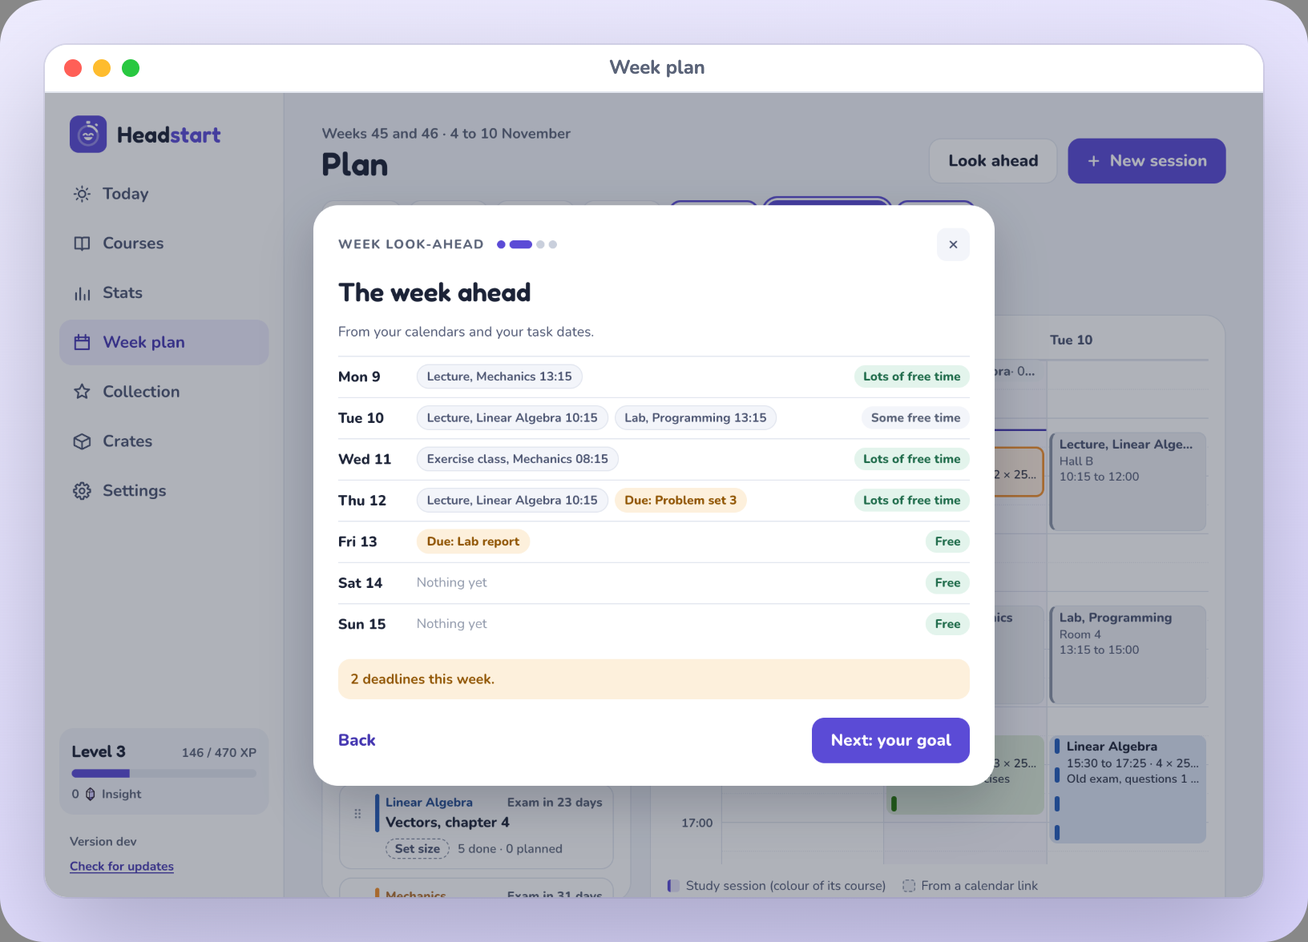
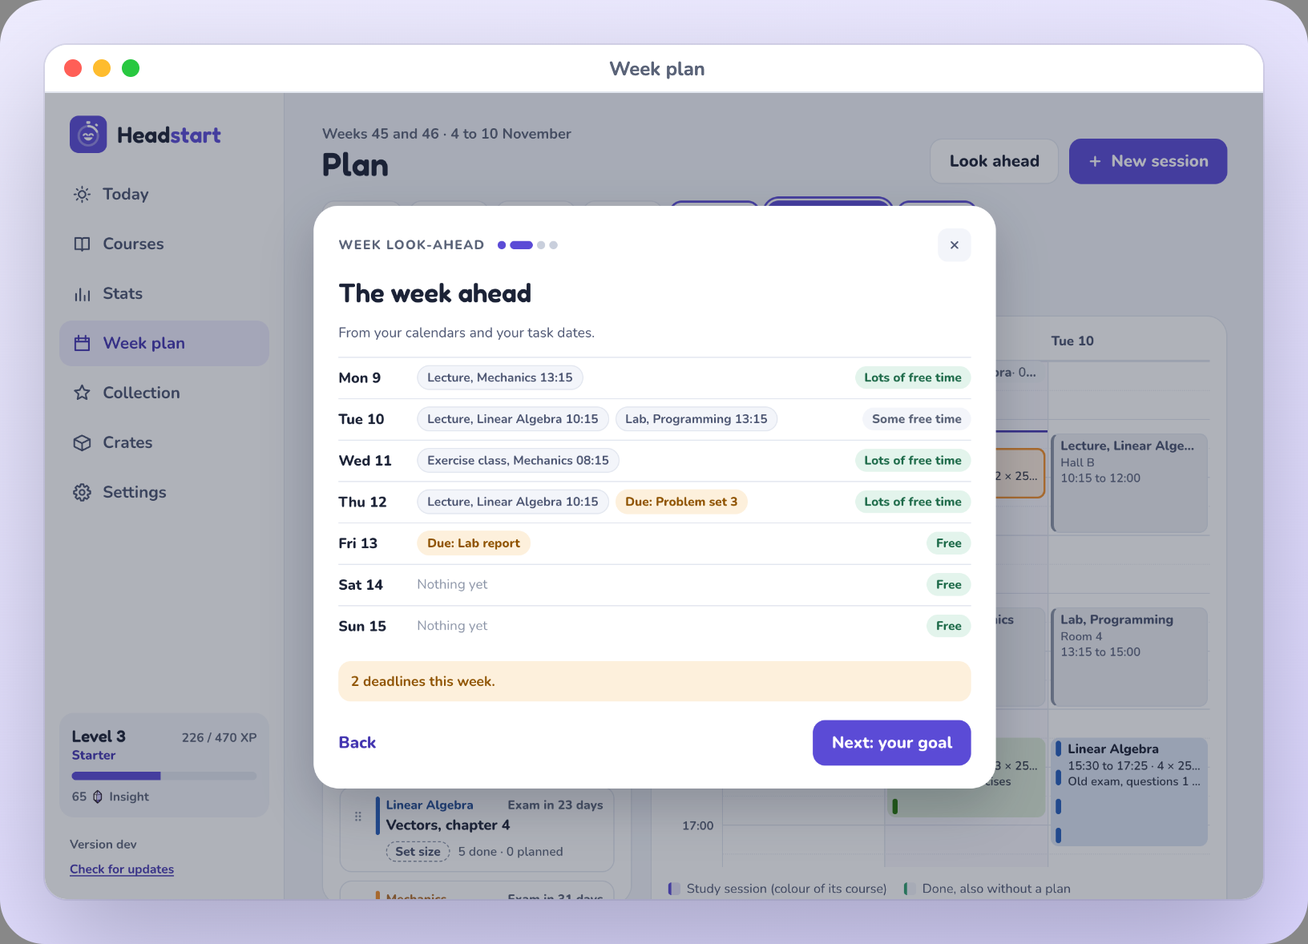
Update the README for reviews, focus tools, weekly goals and plaques
New sections for spaced reviews, the focus tools and the weekly goal with
plaques, an updated roadmap, and every picture taken again from the
current app.

diff --git a/README.md b/README.md
@@ -21,7 +21,7 @@
 </p>
 
 <p align="center">
-  <img src="docs/readme/hero.png" width="900" alt="Headstart's Week plan: three days of study sessions grouped into blocks around lectures from an imported schedule, with the tasks still to plan beside them. A compact timer floats on top counting down 15:44, the same countdown shows with a progress ring in the menu bar, and Maple the red panda says: 15 minutes to your break. You've got this!">
+  <img src="docs/readme/hero.png" width="900" alt="Headstart's Week plan: three days of study sessions grouped into blocks around lectures from an imported schedule, with the tasks still to plan beside them. A compact timer floats on top counting down 15:44, with one thought parked and a Park a thought button, the same countdown shows with a progress ring in the menu bar, and Maple the red panda says: 15 minutes to your break. You've got this!">
 </p>
 
 ## Why Headstart
@@ -32,21 +32,23 @@ Headstart turns studying into small, concrete sessions:
 
 - **Starting takes one click.** Every task has a first to-do, such as "Redo problem 5.7 d", so you never sit down wondering where to begin.
 - **Sessions are short and calm.** A 25-minute countdown (or 50, or just 5 to get going), then a break that starts once you have written down what you remember, so writing never eats into it.
-- **You remember more.** After each session you write down what you recall without looking. Retrieving what you learned is one of the best-tested ways to make it stick.
-- **Showing up is what counts.** Starting on time, staying focused and writing your recall earn XP and Study Crates. Crates hold items for your study buddy, and they are only ever earned by studying, never sold.
-- **Planning fits your week.** Plan the next few days around your lectures, drag tasks into free time, and see every session in your own calendar.
+- **You remember more.** After each session you write down what you recall without looking, and your notes come back as short reviews on day 1, 3, 7, 14 and 30. Retrieval and spacing are two of the best-tested ways to make things stick.
+- **Distractions get less of a grip.** Park a stray thought in one line and keep going, get a gentle nudge when a chosen app pulls you away, and let sessions turn on Do Not Disturb.
+- **Showing up is what counts.** Starting on time, staying focused and writing your recall earn XP, Study Crates and plaques. Crates hold items for your study buddy, and they are only ever earned by studying, never sold.
+- **A missed day costs nothing.** Your goal is a number of study days a week, so one bad day never breaks a streak, and coming back after a break is welcomed, not punished.
+- **Planning fits your week.** Plan the next few days around your lectures, drag tasks into free time, and see what you planned and what you actually did in one calendar.
 - **It is yours.** Everything is stored on your computer. No account, no ads, no tracking.
 
 ## How a session works
 
 <p align="center">
-  <img src="docs/readme/loop.png" width="900" alt="Four steps. Plan: study blocks in the week plan. Focus: the countdown with Maple. Recall: writing down what you remember and rating your focus. Collect: a Study Crate revealing an epic Study Lantern">
+  <img src="docs/readme/loop.png" width="900" alt="Four steps. Plan: study blocks in the week plan. Focus: the countdown with Maple. Recall: writing down what you remember. Collect: a Study Crate revealing a rare Berry Hoodie">
 </p>
 
 1. **Plan.** Add your courses, their tasks and to-dos. Drag a task into the week plan, or drag over free time, and it fills with sessions and breaks.
 2. **Focus.** Start in one click from the app, the menu bar or a keyboard shortcut. Study in the window, in full screen or with a small timer that floats above everything else.
-3. **Recall.** When the timer ends, write down what you remember, rate your focus and tick off what you got done. The rest goes back on the list.
-4. **Collect.** Every three sessions earn a Study Crate. Open it for an item, put it on your buddy, and work towards complete sets.
+3. **Recall.** When the timer ends, write down what you remember (with maths if you need it), add a question for future you, rate your focus and tick off what you got done. The rest goes back on the list.
+4. **Collect.** Every three sessions earn a Study Crate. Open it for an item, put it on your buddy, and work towards complete sets and grander plaques.
 
 ## Plan your week
 
@@ -58,12 +60,56 @@ Headstart turns studying into small, concrete sessions:
 - **Drag to plan.** Drag over free time, or drag a task from To plan into the calendar. Two hours become 4 × 25 minutes with breaks, kept together as one block that you move and change in one go.
 - **Tasks know what is left.** Give a task a rough size or your own number of sessions and a date. To plan shows what is done, planned and still to plan, soonest first.
 - **Your schedule comes along.** Add a TimeEdit, Canvas or other calendar link, or import an `.ics` file, and plan around your lectures. On macOS, every session can also show up in Apple Calendar, on your phone too.
+- **What you did shows too.** Sessions you start without a plan appear in the week plan where they happened, once they end. Adding them to Apple Calendar as well is up to you.
 - **Moves like a calendar.** Swipe with two fingers to go back and forth, and fold To plan away when you only want the calendar.
 
 <p align="center">
   <img src="docs/readme/screen-lookahead.png" width="820" alt="The weekly look-ahead, step two of four: the week ahead day by day with lectures and deadlines from the calendar and task dates, how much free time each day has, and a note that there are two deadlines this week">
 </p>
-<p align="center"><b>Weekly look-ahead.</b> Optional, two minutes on a day you choose: last week in numbers, the week ahead, a goal and planning the next two days.</p>
+<p align="center"><b>Weekly look-ahead.</b> Optional, two minutes on a day you choose: a look back at last week, the week ahead, a goal and planning the next two days.</p>
+
+## Remember what you study
+
+<p align="center">
+  <img src="docs/readme/screen-review.png" width="820" alt="A review on the Today screen: Old exam, questions 1 to 3 from a Linear Algebra session on Wednesday, with the question written for it, What goes in the columns of P when you diagonalise A?, a hint showing the first words of the note, a scratch space and a Show my note button">
+</p>
+<p align="center"><b>Reviews.</b> Your own question on the front, your note on the back. Try to remember first, then check.</p>
+
+- **Spaced reviews.** Every recall note comes back on day 1, 3, 7, 14 and 30. Remembered moves it on, forgot brings it back tomorrow, and at most ten a day show up. Notes you have learned come back once in the week before the exam.
+- **A question for future you.** When you write a note, add the question you should be able to answer in three days. Headstart suggests one from the to-dos you ticked off.
+- **A hint when you are stuck.** The review shows what the session covered, and a hint with the first words of your note.
+- **All your notes per course.** Search them, see which are new, in review or learned, and how many reviews are left before the exam.
+- **Maths that looks like maths.** Write LaTeX between dollar signs in notes and to-dos, such as `$\lambda$` or `$$\det(A - \lambda I) = 0$$`, with a symbol bar and a live preview.
+- **Work modes.** Tag a session as Test myself, Mixed practice, Explain or Read, so you can see how you study.
+
+## Stay focused
+
+<p align="center">
+  <img src="docs/readme/screen-focus.png" width="820" alt="The focus view: a countdown ring at 15:45, Maple in a striped beanie, the next step for the session, and a Park a thought field below with Email the lab assistant about Thursday parked for the break">
+</p>
+<p align="center"><b>Focus.</b> A big, calm countdown, the to-dos this session is for, and a place to park what pops into your head.</p>
+
+- **Park a thought.** One line and Enter, from the focus view (press <kbd>T</kbd>), the compact timer or the menu bar, and it waits for the break. Most thoughts only need ticking off; the ones about studying can become a to-do.
+- **A gentle nudge.** Pick the apps that tend to pull you away. When one of them has been in front for 10 seconds during a session, a small card asks if you want to go back. Headstart never looks inside the app and never saves which app it was.
+- **Do Not Disturb.** Sessions can turn on a Focus on macOS (through two Shortcuts you make once) or hide notification banners on GNOME, and turn it off again when they end.
+
+## Keep going, week by week
+
+<p align="center">
+  <img src="docs/readme/screen-goals.png" width="820" alt="The Today screen: This week with Monday studied and the other days to come, 1 of 5 study days and 25 minutes of focus, 2 weeks in a row, and the reviews due today below, each with dots for how far along its schedule it is">
+</p>
+<p align="center"><b>This week.</b> Study days against your goal, the focus time beside it, and weeks in a row instead of a daily streak.</p>
+
+- **A weekly goal, not a daily streak.** Choose how many days to study and a rest day. A week is met when you reach them; a missed day changes nothing.
+- **Freezes.** Every four weeks met earn a freeze, at most two saved. After a missed week Headstart asks whether to use one, and never uses one without a yes.
+- **Welcome back.** After a week or more away there is nothing to catch up on: that week's goal is halved and a Study Crate waits.
+- **A look back.** Three short questions at the end of the week: what went well, what got in the way, and one thing to change. The change stays on the This week card all week.
+- **Levels and ranks.** Every new level gives a little Insight and a short celebration, and ten ranks, from Newcomer to Legend, go with the levels.
+
+<p align="center">
+  <img src="docs/readme/screen-plaques.png" width="820" alt="The plaque wall in Collection: Session Stacker at tier I, Deep Hours nearly there at 9 of 10 hours, First Dip earned, Head Start at tier III with laurels around the shield, and Deep Diver, Long Haul and Early Bird still to start, each with a bar towards its next tier">
+</p>
+<p align="center"><b>Plaques.</b> Marks of things you actually did. Most grow through five tiers, from a plain shield to one with laurels, a crown and rays.</p>
 
 ## Meet your study buddy
 
@@ -82,56 +128,58 @@ There are **154 items** to find in five themed sets, from simple commons to anim
 ## A look inside
 
 <p align="center">
-  <img src="docs/readme/screen-today.png" width="820" alt="The Today screen: the next session, Problem set 3 at 10:30, with its next step and if-then plan, the on-time streak at 22 in a row, focus time, crate progress, and today's plan below">
+  <img src="docs/readme/screen-today.png" width="820" alt="The Today screen: the next session, Problem set 3 at 10:30, with its next step and if-then plan, and below it this week's study days with 2 weeks in a row">
 </p>
-<p align="center"><b>Today.</b> The next session with its first step and if-then plan, one click from starting, and the rest of today's plan below.</p>
+<p align="center"><b>Today.</b> The next session with its first step and if-then plan, one click from starting, then your week, today's reviews and the rest of today's plan.</p>
 
 <p align="center">
-  <img src="docs/readme/screen-focus.png" width="820" alt="The focus view: a large countdown ring at 15:45, Maple focusing, and the session's checklist with one to-do ticked off">
+  <img src="docs/readme/screen-complete.png" width="820" alt="Session complete: the XP earned for the session, starting on time, no distractions and writing a recall, the level bar, and the recall box with its maths symbol bar">
 </p>
-<p align="center"><b>Focus.</b> A big, calm countdown and the to-dos this session is for. Space pauses, +5 min extends, and you can switch course mid-session.</p>
+<p align="center"><b>Session complete.</b> What you earned, then a minute to write down what you remember and a question for future you.</p>
 
 <p align="center">
-  <img src="docs/readme/screen-complete.png" width="820" alt="Session complete: the XP earned for the session, starting on time, no distractions and writing a recall, and the recall text box">
-</p>
-<p align="center"><b>Session complete.</b> What you earned, then a minute to write down what you remember.</p>
-
-<p align="center">
-  <img src="docs/readme/screen-crate.png" width="820" alt="A Study Crate revealing an epic Study Lantern on Maple, part of the Cosy set">
+  <img src="docs/readme/screen-crate.png" width="820" alt="A Study Crate revealing a rare Berry Hoodie on Maple, part of the Cosy set, with the next Epic within 10 crates and the next Legendary within 55">
 </p>
 <p align="center"><b>Study Crates.</b> Each item is revealed on your own buddy and can be put on right away.</p>
 
 <p align="center">
-  <img src="docs/readme/screen-collection.png" width="820" alt="The wardrobe: Maple wearing a striped beanie, blue glasses, a teal lanyard and the Study Lantern, with the items found so far for each slot">
+  <img src="docs/readme/screen-collection.png" width="820" alt="The wardrobe: Maple wearing a striped beanie and the Berry Hoodie, with the items found so far for each slot">
 </p>
-<p align="center"><b>Collection.</b> A wardrobe for each buddy, every item in the catalogue and your progress on each set.</p>
+<p align="center"><b>Collection.</b> A wardrobe for each buddy, every item in the catalogue, your progress on each set and your plaques.</p>
 
 <p align="center">
-  <img src="docs/readme/screen-courses.png" width="820" alt="The Courses page: Linear Algebra with the task Eigenvalues, chapter 5 and its to-dos, each with a grip to drag it into order, and the next step marked">
+  <img src="docs/readme/screen-courses.png" width="820" alt="The Courses page: Linear Algebra with its exam in 23 days and buttons for its plan and notes, the task Eigenvalues, chapter 5 and its to-dos, each with a grip to drag it into order, and the next step marked">
 </p>
-<p align="center"><b>Courses.</b> Course codes, tasks and to-dos you drag into the order you want. The top one is always the next step.</p>
+<p align="center"><b>Courses.</b> Course codes, exam dates, tasks and to-dos you drag into the order you want. The top one is always the next step, and each course keeps its notes.</p>
 
 <p align="center">
   <img src="docs/readme/screen-stats.png" width="820" alt="Stats: focus time, on-time starts, the on-time streak, distraction-free share and focus rating, and minutes of focus for each of the last seven days">
 </p>
-<p align="center"><b>Stats.</b> Focus time per day and per course, on-time starts, streaks and how focused your sessions felt.</p>
+<p align="center"><b>Stats.</b> Focus time per day and per course, on-time starts, streaks, how focused your sessions felt, and your weeks with what you wrote about them.</p>
 
 ## What it does today
 
-- **Today:** the next planned session with its to-dos and if-then plan, today's plan (sessions planned together show as one block), focus time, your on-time streak and crate progress.
+- **Today:** the next planned session with its to-dos and if-then plan, this week's study days, the reviews due, today's plan (sessions planned together show as one block), focus time, your on-time streak and crate progress.
 - **Week plan:** the next few days or the whole week as a calendar, with your tasks beside it. Drag over free time or drag a task in: two hours become 4 × 25 minutes with breaks, kept together as one block you move and change in one go. Swipe with two fingers to go back and forth, and fold the task list away when you only want the calendar.
 - **Tasks that know what is left:** give a task a rough size (Small, Medium, Large) or your own number of sessions and a date, and the planner shows what is done, planned and still to plan, soonest first.
 - **Your schedule as busy time:** add a calendar link (TimeEdit, Canvas or any other `.ics` link, refreshed every hour) or import an `.ics` file. Lectures show in the week plan, so sessions fit around them.
-- **Apple Calendar sync (macOS):** sessions you plan appear in a Headstart calendar in iCloud, on your phone too, and moving or deleting one in Calendar changes it in Headstart. Your other calendars can show as busy time.
-- **Weekly look-ahead (optional):** two minutes on a day of your choice: last week in numbers, what is coming up, a goal for the week and planning the next two days.
+- **Sessions you did:** sessions started without a plan show in the week plan where they happened, once they end.
+- **Apple Calendar sync (macOS):** sessions you plan appear in a Headstart calendar in iCloud, on your phone too, and moving or deleting one in Calendar changes it in Headstart. Sessions done without a plan can be added too, if you turn it on. Your other calendars can show as busy time.
+- **Weekly look-ahead (optional):** two minutes on a day of your choice: last week in numbers and three short questions about it, what is coming up, a goal for the week and planning the next two days.
+- **Spaced reviews:** your recall notes come back on day 1, 3, 7, 14 and 30, with your own question on the front and a hint, at most ten a day, and once more before the exam.
+- **Notes per course:** every recall note of a course, searchable, with how far each one has come.
+- **Maths:** LaTeX in notes and to-dos, with a symbol bar, suggestions as you type and a live preview.
+- **Work modes:** Test myself, Mixed practice, Explain or Read, picked when you start or afterwards.
 - **Courses, tasks and to-dos:** course codes, exam dates with a countdown, and to-dos you can drag into order.
 - **Planned sessions and reminders:** a notification before a session starts and one gentle nudge if it has not, at most a few a day. Starting on time earns a bonus.
 - **Focus sessions** of 25 or 50 minutes or just 5, with breaks that follow the length and start once your notes are done, a long break after every fourth session in a row, and an optional automatic start of the next one.
 - **Three ways to focus:** the normal window, full screen that stays on top, or a compact timer you can drag anywhere.
+- **Focus tools:** park a thought for the break, a gentle nudge when a chosen app pulls you away (macOS, Windows and Linux on X11), and Do Not Disturb during sessions (macOS and GNOME).
 - **Menu bar and tray:** a progress ring with the countdown beside it on macOS, a panel to run a whole session without opening the app, and a global shortcut (<kbd>Alt</kbd>+<kbd>Shift</kbd>+<kbd>H</kbd>, <kbd>⌥⇧H</kbd> on a Mac).
-- **Rewards:** XP and levels, Study Crates, Insight, crafting and a pity timer.
+- **Weekly goal:** study days a week with a rest day, weeks in a row instead of a daily streak, freezes that ask before they are used, and a softer week after time away.
+- **Rewards:** XP, levels with Insight and ranks, Study Crates, Insight, crafting, a pity timer, and plaques that grow through five tiers.
 - **Light and dark:** a calm dark theme, a light one, or follow your computer. Picked during setup and changeable any time.
-- **Settings:** theme, session length, breaks, reminders, nudges, sound, calendars, the weekly look-ahead, reduced motion and a test notification.
+- **Settings:** theme, session length, breaks, focus tools, reminders, nudges, sound, calendars, the weekly look-ahead, reduced motion and a test notification.
 - **Updates** install from inside the app.
 
 ## Roadmap
@@ -139,20 +187,20 @@ There are **154 items** to find in five themed sets, from simple commons to anim
 <p align="center">
   <picture>
     <source media="(prefers-color-scheme: dark)" srcset="docs/readme/roadmap-dark.png">
-    <img src="docs/readme/roadmap-light.png" width="900" alt="Three stages. 1, The study loop, all done: everything you need to study well on your own. 2, Habits and depth, under way: the week planner with calendar import and sync and dark mode are done; spaced reviews, focus tools, weekly goals and plaques, a bigger collection and deeper stats are next. 3, Friends and sync: accounts and sync through a server, friends and leaderboards, study rooms, group goals and a phone companion">
+    <img src="docs/readme/roadmap-light.png" width="900" alt="Three stages. 1, The study loop, all done: everything you need to study well on your own. 2, Habits and depth, mostly done: the week planner with calendar import and sync, dark mode, spaced reviews, focus tools, and weekly goals with plaques are done; a bigger collection and deeper stats are next. 3, Friends and sync: accounts and sync through a server, friends and leaderboards, study rooms, group goals and a phone companion">
   </picture>
 </p>
 
-Headstart grows in three stages. **Stage 1 is out** ([v0.2.0](https://github.com/ChonkieMonkie/headstart/releases/tag/v0.2.0)), and **stage 2** is under way: the week planner and dark mode came in [v0.3.0](https://github.com/ChonkieMonkie/headstart/releases/tag/v0.3.0). Each stage ships in small releases, and installed apps update themselves. Stages 1 and 2 never need a server; stage 3 adds an optional one for sync and friends, and the app keeps working fully offline.
+Headstart grows in three stages. **Stage 1 is out** ([v0.2.0](https://github.com/ChonkieMonkie/headstart/releases/tag/v0.2.0)), and **stage 2** is well under way: the week planner and dark mode came in [v0.3.0](https://github.com/ChonkieMonkie/headstart/releases/tag/v0.3.0), and spaced reviews, focus tools, weekly goals and plaques in v0.4.0. A bigger collection and deeper stats come next. Each stage ships in small releases, and installed apps update themselves. Stages 1 and 2 never need a server; stage 3 adds an optional one for sync and friends, and the app keeps working fully offline.
 
 ## Built to run all day
 
 Headstart sits in your menu bar or tray from morning to night, so it is built to stay out of the way:
 
 - **Small:** a 3 to 5 MB installer (the Linux AppImage bundles its own libraries), using the system's own web view instead of a bundled browser.
-- **Quiet:** the timer runs natively and the tray only redraws when the ring moves a visible step. A hidden window updates every 15 seconds instead of every second, and the tray panel is only created the first time you open it.
+- **Quiet:** the timer runs natively, checks less often when no timer runs, and the tray only redraws when the ring moves a visible step. A hidden window updates every 15 seconds instead of every second, and the tray panel and nudge card are only created the first time they are needed.
 - **Still when unseen:** every animation pauses while the window is hidden or has been in the background for a minute, and reduced motion turns them off.
-- **Private:** everything is stored locally in an append-only event log (SQLite). Nothing leaves your computer, unless you turn on Apple Calendar sync, which puts your sessions in your own calendar. Calendar links are only read, and what they hold stays on your computer.
+- **Private:** everything is stored locally in an append-only event log (SQLite). Nothing leaves your computer, unless you turn on Apple Calendar sync, which puts your sessions in your own calendar. Calendar links are only read, and what they hold stays on your computer. The distraction guard only asks which app is in front, and the apps you guard are kept on this computer, never in the log.
 
 ## Install
 
@@ -161,8 +209,8 @@ Download the installer for your system from the latest [release](https://github.
 The builds are not code signed yet, so the operating system warns the first time:
 
 - **Windows:** SmartScreen says "Windows protected your PC". Click **More info → Run anyway**.
-- **macOS:** right-click (or Control-click) **Headstart** in Applications and choose **Open**, then **Open** again. If macOS says the app is damaged, run `xattr -cr /Applications/Headstart.app` in Terminal once. If you turn on Apple Calendar sync, macOS asks once whether Headstart may use your calendars.
-- **Linux:** use the `.deb` (Debian, Ubuntu), the `.rpm` (Fedora) or the `.AppImage` (any distro: `chmod +x` it first). On GNOME, the tray icon needs the *AppIndicator and KStatusNotifierItem Support* extension.
+- **macOS:** right-click (or Control-click) **Headstart** in Applications and choose **Open**, then **Open** again. If macOS says the app is damaged, run `xattr -cr /Applications/Headstart.app` in Terminal once. If you turn on Apple Calendar sync, macOS asks once whether Headstart may use your calendars. Do Not Disturb during sessions needs two Shortcuts you make once; Settings shows how.
+- **Linux:** use the `.deb` (Debian, Ubuntu), the `.rpm` (Fedora) or the `.AppImage` (any distro: `chmod +x` it first). On GNOME, the tray icon needs the *AppIndicator and KStatusNotifierItem Support* extension. The distraction guard works on X11; on Wayland, apps cannot see which window is in front, so it is off there.
 
 After that, updates install from inside the app.
 
@@ -189,12 +237,12 @@ cargo test --manifest-path apps/desktop/src-tauri/Cargo.toml   # Rust shell test
 
 ```
 apps/desktop/         Tauri 2 app: SvelteKit UI in src/, Rust shell in src-tauri/
-                      (tray, focus layouts, notifications, global shortcut,
-                      calendar links and Apple Calendar through EventKit)
+                      (tray, focus layouts, notifications, global shortcut, calendar links,
+                      Apple Calendar through EventKit, the distraction guard and Do Not Disturb)
 packages/core/        domain logic in pure TypeScript: event log, timer, XP, crates, pity,
-                      the week planner and a small .ics reader
-packages/content/     items (with how each is drawn), sets, crate odds and reward rules as JSON,
-                      validated at startup
+                      the week planner, spaced reviews, weekly goals, plaques and a small .ics reader
+packages/content/     items (with how each is drawn), sets, crate odds, reward rules, ranks and
+                      plaques as JSON, validated at startup
 packages/ui/          design tokens, fonts, the mascot renderer and shared Svelte components
 scripts/              repository tooling, such as the licence check
 .github/workflows/    CI and release builds for all three operating systems
